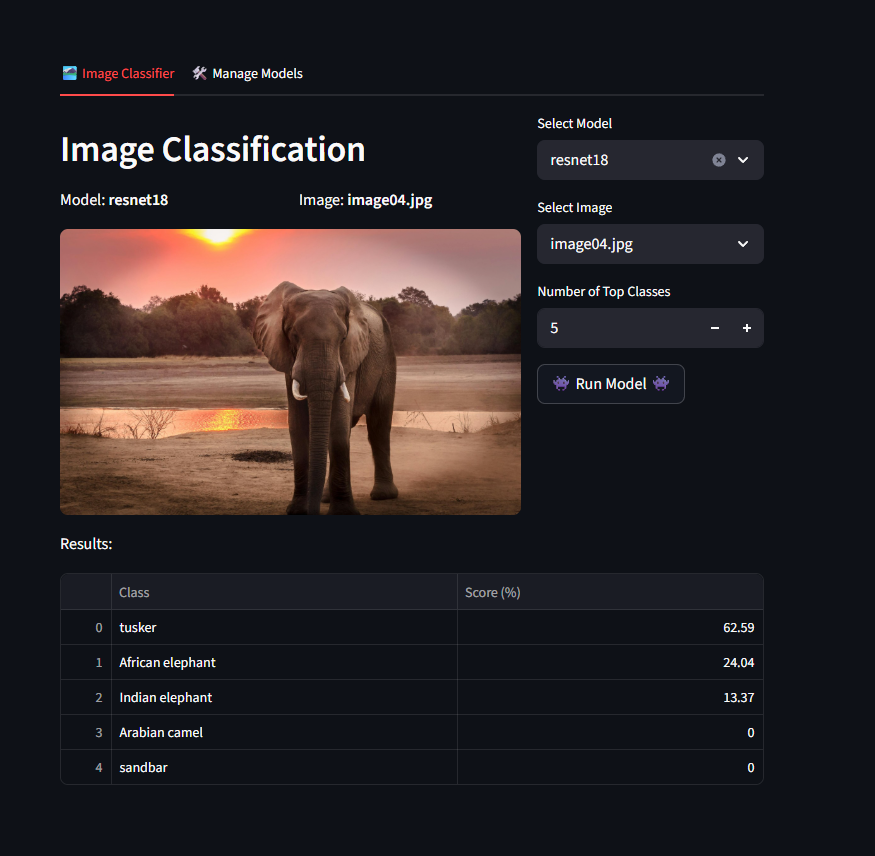
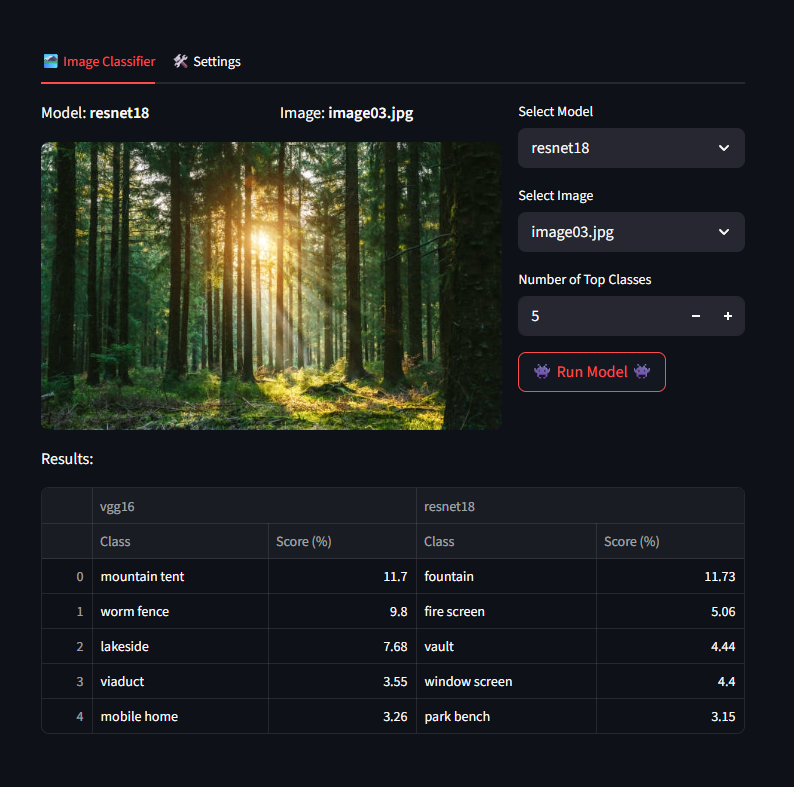
added table with multiple models and  fast model load

diff --git a/streamlit_service/app.py b/streamlit_service/app.py
@@ -52,19 +52,20 @@ def load_model(selected_model):
 st.set_page_config(layout="centered", page_title="Image Classifier")
 
 # Tab 1 = end-user classify flow; Tab 2 = quick model listing.
-tab1, tab2 = st.tabs(["🏞 Image Classifier", "🛠 Manage Models"])
+tab1, tab2 = st.tabs(["🏞 Image Classifier", "🛠 Settings"])
 
 # Track model & image selections across interactions so we don't reload the model unnecessarily when the user re-renders the app.
 if "selected_model" not in st.session_state:
     st.session_state.selected_model = None
     st.session_state.selected_image = None
+    st.session_state.df_combined = pd.DataFrame()
 
 with tab1:
     col_screen, col_controls = st.columns([2, 1])
-    col_screen.header("Image Classification")
+    #col_screen.header("🏞 Image Classifier")
     
     # Model selection (dropdown). We only call backend load when selection changes.
-    selected_model = col_controls.selectbox("Select Model", models, index=None)
+    selected_model = col_controls.selectbox("Select Model", models)
     if selected_model and selected_model != st.session_state.selected_model:
         st.session_state.selected_model = selected_model
         resp = load_model(selected_model)
@@ -77,33 +78,56 @@ with tab1:
     col_image_text.write(f"Image: **{st.session_state.selected_image}**")
 
     # Image selection radio; uses session_state key to persist.
-    selected_image = col_controls.selectbox("Select Image", images, key="selected_image")
+    selected_image = col_controls.selectbox("Select Image", images)
 
     # Top-k parameter (not currently wired into backend response; backend returns top5).
     top_k = col_controls.number_input("Number of Top Classes", min_value=1, max_value=100, value=5, step=1, format="%d")
 
-    if selected_image:
-        try:
-            image_path = os.path.join(images_dir, selected_image)
-            image = Image.open(image_path)
-            col_screen.image(image)
-        except Exception as e:
-            col_screen.error(f"Could not open image: {e}")
+    if selected_image and selected_image != st.session_state.selected_image:
+        st.session_state.selected_image = selected_image
+        st.session_state.df_combined = pd.DataFrame()
+    try:
+        image_path = os.path.join(images_dir, st.session_state.selected_image)
+        image = Image.open(image_path)
+        col_screen.image(image)
+    except Exception as e:
+        col_screen.error(f"Could not open image: {e}")
 
-        # Button to trigger inference call. Disabled unless a model is selected.
-        if col_controls.button("👾 Run Model 👾", disabled=not bool(selected_model)):
-            result = infer_model(image_path, top_k)  # Fixed port for simplicity
+    # Button to trigger inference call. Disabled unless a model is selected.
+    if col_controls.button("👾 Run Model 👾", disabled=not bool(selected_model)):
+        image_path = os.path.join(images_dir, st.session_state.selected_image) if st.session_state.selected_image else None
+        if image_path is None:
+            col_controls.error("No image selected.")
+        else:
+            result = infer_model(image_path, top_k)
             if "error" in result:
                 col_controls.error(result["error"])
             else:
                 top_classes = result.get("top_classes", [])
                 if top_classes:
                     df = pd.DataFrame(top_classes, columns=["Class", "Score (%)"])
-                    st.write("Results:", df)
+                    df.columns = pd.MultiIndex.from_product([[selected_model], df.columns])
+                    st.session_state.df_combined = pd.concat([st.session_state.df_combined, df], axis=1)
+                    # st.write("Results:", df)
 
+    if not st.session_state.df_combined.empty:
+        df = st.session_state.df_combined.reset_index(drop=True)
+        st.write("Results:", df)
 
     
 with tab2:
-    st.header("Manage Models")
+    #st.header("🛠 Settings")
+    # --- Add Image to /images (single control) ---
+    uploaded_img = st.file_uploader("➕ Add Image", type=None, key="upload_image")
+
+    if uploaded_img is not None:
+        try:
+            dest_path = os.path.join(images_dir, uploaded_img.name)
+            with open(dest_path, "wb") as out_f:
+                out_f.write(uploaded_img.getbuffer())
+            st.success(f"Saved image: {uploaded_img.name}")
+        except Exception as e:
+            st.error(f"Save failed: {e}")
+
     # Quick diagnostic list of available model file stems.
     st.write("Available:", models)

diff --git a/fastapi_service/app.py b/fastapi_service/app.py
@@ -1,22 +1,38 @@
-from fastapi import FastAPI, UploadFile
+# app.py
+from fastapi import FastAPI, UploadFile, Request, HTTPException, Query
+import asyncio
+
 from model_inference import infer_model
 from model_manager import load_model
 from utils import uploadfile_to_rgb_image
-import asyncio
 
 app = FastAPI()
-model = None
-labels = None
+
+# Initialize runtime state containers on the app instance.
+# models_dict caches all loaded models by key (model_path).
+# model / labels hold the "active" model last requested via /load_model.
+app.state.models_dict = {}
+app.state.model = None
+app.state.labels = None
+
 
 @app.get("/load_model")
-def _load_model(model_path: str):
-    global model
-    global labels
-    model, labels = load_model(model_path+".pkl")
-    return {"status": "loaded"}
+def load_model_endpoint(model_path: str, request: Request):
+    state = request.app.state
+
+    if model_path not in state.models_dict:
+        model, labels = load_model(f"{model_path}.pkl")
+        state.models_dict[model_path] = (model, labels)
+    else:
+        state.model, state.labels = state.models_dict[model_path]
+
+    return {"status": "loaded", "model_path": model_path}
+
 
 @app.post("/infer_model")
-async def _infer_model(file: UploadFile, top_k: int):
+async def infer_model_endpoint(file: UploadFile,  top_k: int = 5, request: Request = None):
+    state = request.app.state
+
     image = await uploadfile_to_rgb_image(file)
-    top_classes = await asyncio.to_thread(infer_model, model, labels, image, top_k)
+    top_classes = await asyncio.to_thread(infer_model, state.model, state.labels, image, top_k)
     return {"top_classes": top_classes}

diff --git a/README.MD b/README.MD
@@ -5,11 +5,17 @@ A **minimal, containerized demo** showing how to serve a PyTorch image classific
 
 # ⭐ Key Features
 
-- **Two-service stack:** FastAPI backend for model load + inference; Streamlit frontend for selecting models/images and visualizing predictions.
+- **Two-service stack:** FastAPI backend for model loading + inference; Streamlit frontend for model/image selection and prediction visualization.
 - **Dockerized dev loop:** `docker-compose.yml` builds both services and mounts source directories for live code reloading.
-- **Shared volumes:** `/models` and `/images` mounted into both containers so the UI and API see the same assets.
-- **Example model + assets:** Includes a sample `resnet18.pkl` and example images under `images/` to get you started quickly.
-- **Simple REST API:** `/load_model?model_path=...` and `/infer_model` (image upload, `top_k`) endpoints.
+- **Shared volumes:** `/models` and `/images` are mounted into both containers so the UI and API access the same assets.
+- **Example model & assets:** Includes a sample `resnet18.pkl` and starter images under `images/` to get you going quickly.
+- **Simple REST API:**
+  - `GET /load_model?model_path=...`
+  - `POST /infer_model` (multipart image upload; optional `top_k` param)
+- **Fast, persistent model loads:** After you call `/load_model`, the model remains resident in the FastAPI container and is immediately available for subsequent inference requests—no need to reload each time.
+- **Compare models on the same image:** View per-class predictions from multiple models side‑by‑side in a table.
+- **Download and Load any torchvision model** *(coming soon)*: Pull and serve any available model from `torchvision` in the system for quick testing.
+
 
 # 🚀 Getting Started
 
